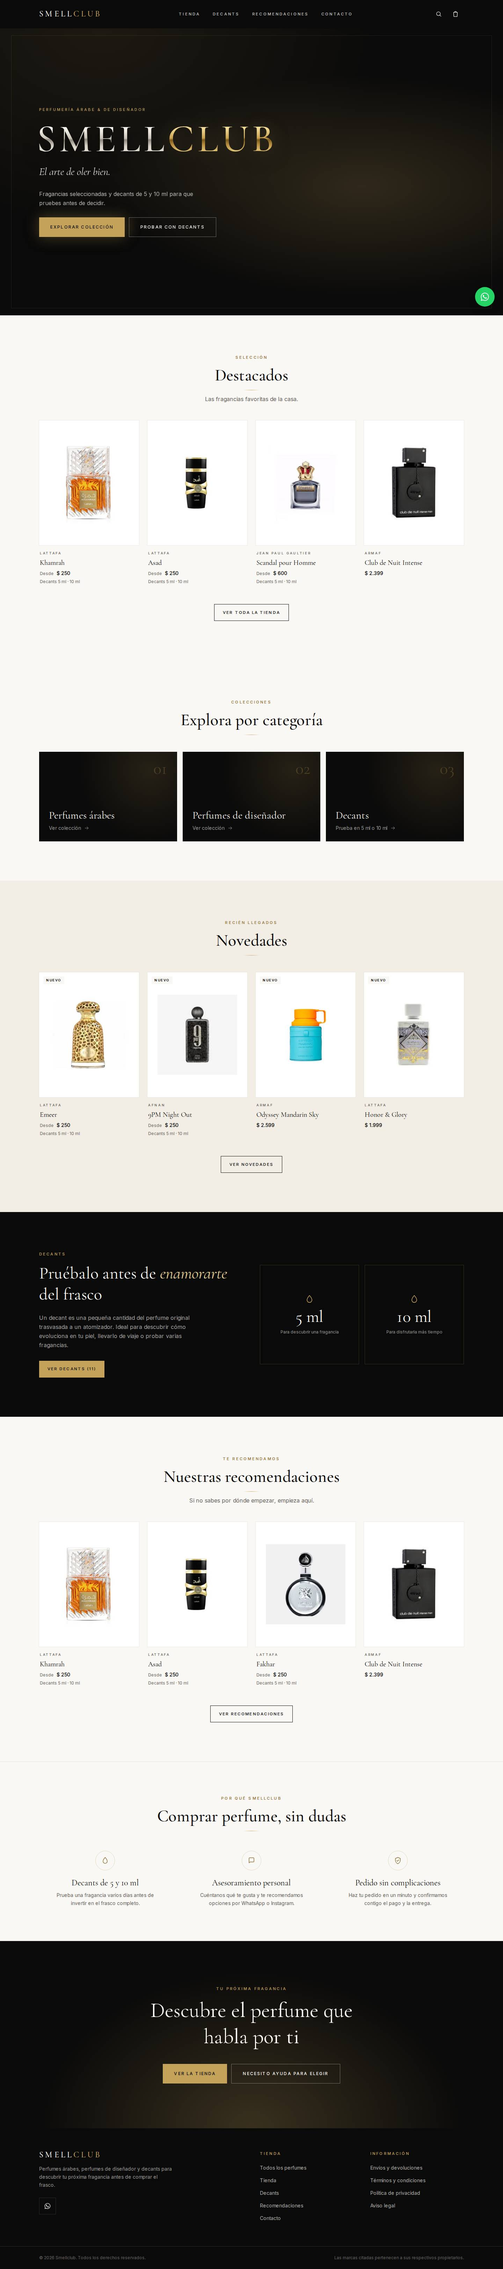
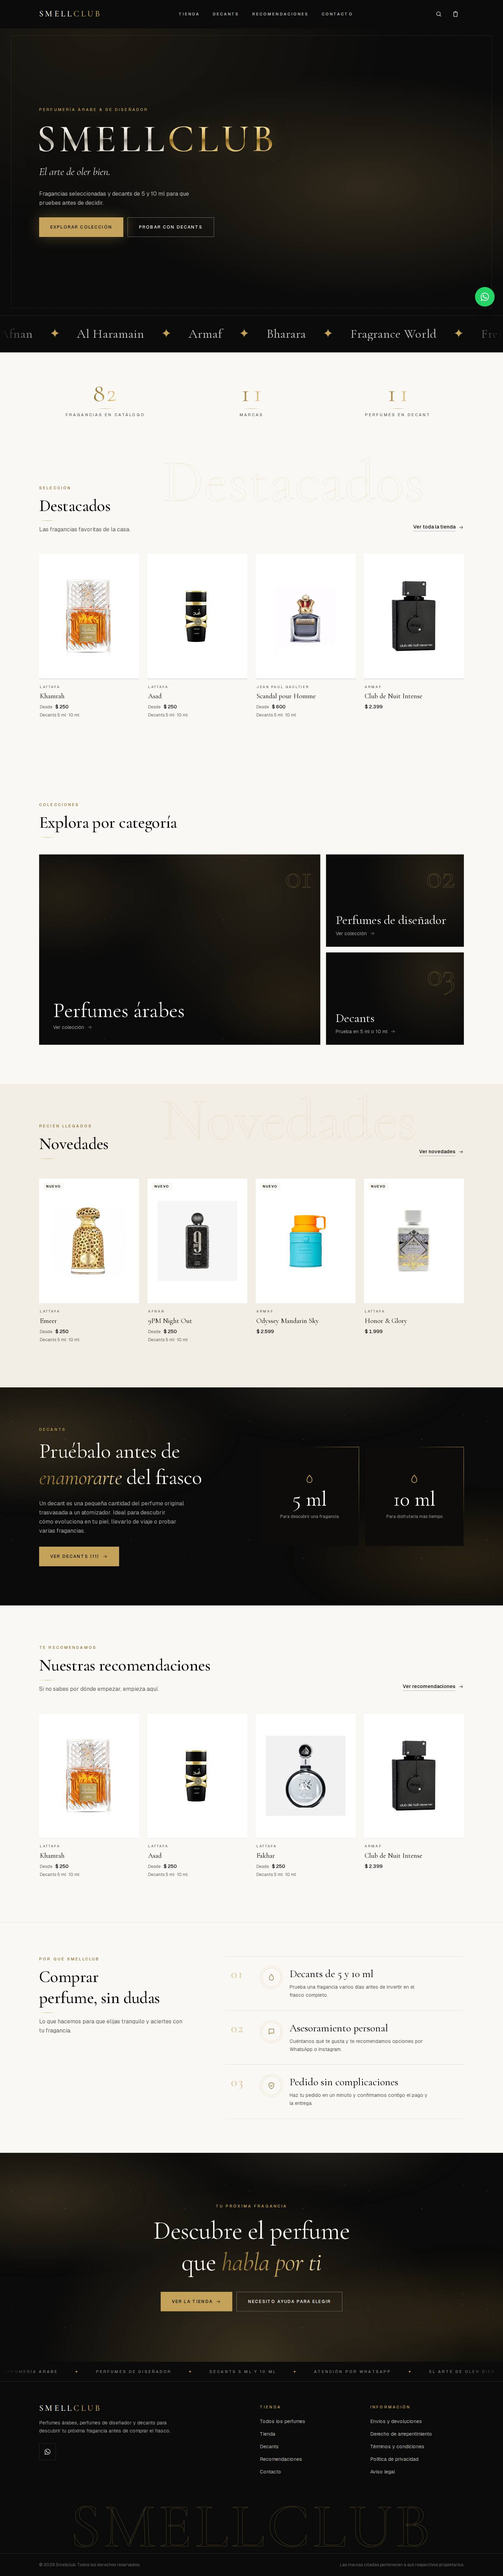
Smell Club: capturas y texto de la tienda nueva
Claude-Session: https://claude.ai/code/session_013Z3wR7AAHtEhpDAqfMgpNd

diff --git a/src/config/site.ts b/src/config/site.ts
@@ -109,12 +109,12 @@ export const site = {
       year: "2026",
       url: "https://smellclub-uy.vercel.app",
       summary:
-        "La tienda online de mi emprendimiento: perfumes árabes y de diseñador, con decants para probar antes de comprar. Acá aprendo con plata propia qué hace que alguien compre.",
-      features: ["Tienda online", "Carrito", "Botón a WhatsApp", "Marca propia"],
+        "La tienda online de mi emprendimiento: más de 80 perfumes árabes y de diseñador, con decants de 5 y 10 ml para probar antes de comprar el frasco. Acá aprendo con plata propia qué hace que alguien compre.",
+      features: ["Catálogo de 82 perfumes", "Decants de 5 y 10 ml", "Carrito", "Recomendaciones", "Botón a WhatsApp"],
       images: {
         mobile: "/trabajos/smell-club-mob.jpg",
         full: "/trabajos/smell-club-full.jpg",
-        fullHeight: 6483,
+        fullHeight: 7360,
       },
     },
   ] satisfies Project[],
